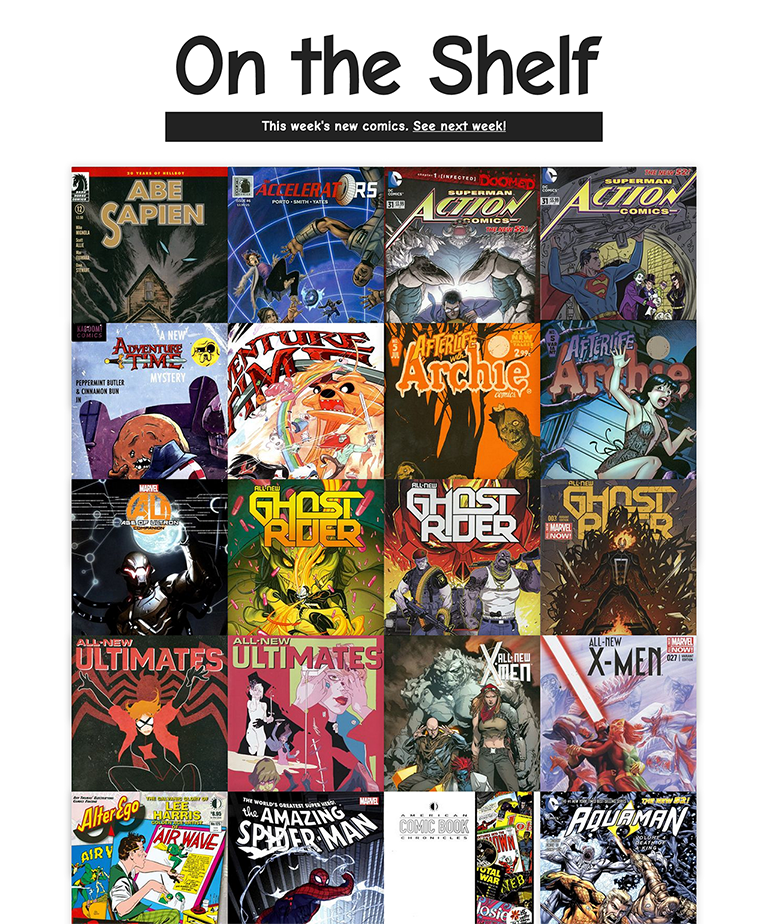
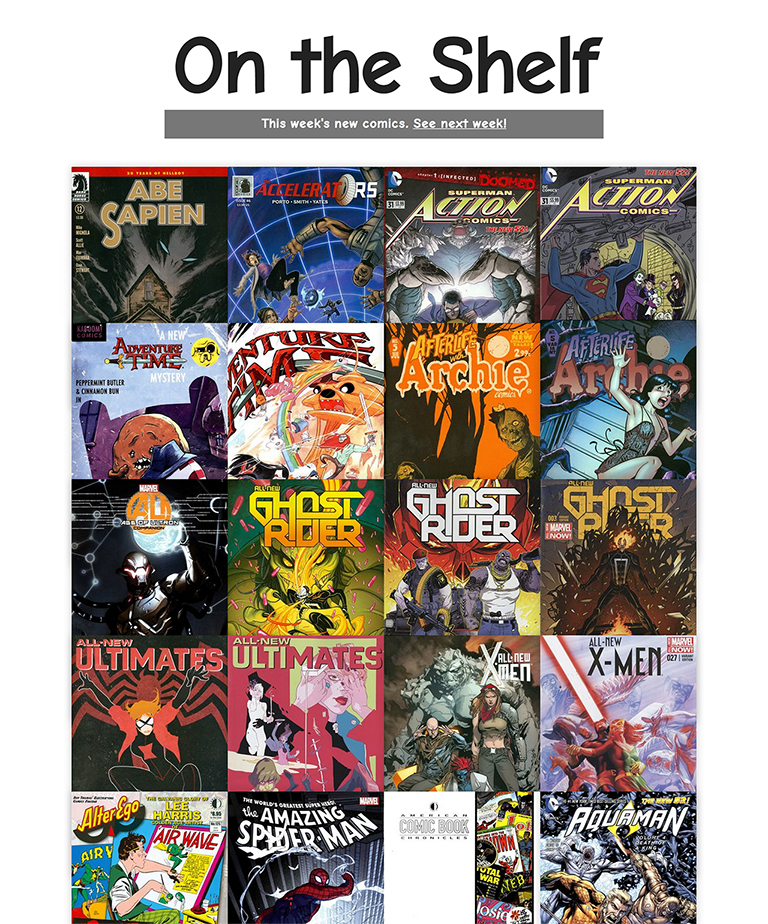
compiled the previous changes

Changed region(s): [[0.1875, 0.0303, 0.8125, 0.1515]]

diff --git a/index.html b/index.html
@@ -4,4 +4,4 @@
   })(window,document,'script','//www.google-analytics.com/analytics.js','ga');
   ga('create', 'UA-44743958-1', 'notsteve.com');
   ga('send', 'pageview');
-  </script><meta name="viewport" content="width=device-width, initial-scale=1.0"><link href="http://fonts.googleapis.com/css?family=Arvo|Montserrat:400,700" rel="stylesheet" type="text/css"><link href="http://fonts.googleapis.com/css?family=Lato:400,900|Volkhov" rel="stylesheet" type="text/css"><link rel="stylesheet" href="./css/styles.css"><script src="./js/jquery.js"></script><script src="./js/jquery.fittext.js"></script><script src="./js/mine.js"></script></head><body><div class="header-wrapper"><div class="header"><h1 class="responsive_h1">STEVEN LEWIS</h1><h2 class="responsive_h2">Designer and HTML/CSS developer based in San&nbsp;Francisco,&nbsp;CA.   </h2></div></div><div class="container"><div class="item"><div class="item-image"><a href="http://notsteve.com/font-flipper" target="_blank" title="The Font Flipper"><img src="img/font-flipper.png" alt="font flipper screenshot"><img src="img/font-flipper-p.png" alt="font flipper screenshot"></a></div><div class="item-description"><h3>Font Flipper</h3><p>Like most graphic designers, I adore typography. I developed this site to better appreciate the detail in each font and character, and to better enable a side-by-side comparison of the individual letters and complete paragraphs. Each and every typeface is unique, and “Font Flipper” enables the user to view multiple fonts, compare, and choose the best fit for their products, whether it is a book title, a page header, or just for fun. Type is a complicated, and beautiful thing. </p><a href="http://notsteve.com/font-flipper" target="_blank" title="The Font Flipper">notsteve.com/font-flipper</a></div></div><div class="item"><div class="item-image"><a href="http://www.laurastevenson.net/home" target="_blank" title="laura stevenson website"><img src="img/laura-shirt.png" alt="laura stevenson and the cans shirt"><img src="img/laura-sketches.png" alt="early sketches of Laura Stevenson shirt"></a></div><div class="item-description"><h3>Laura Stevenson & the Cans </h3><p>This design started as fan art. Making logos for bands I like is just one tactic I use to hone my design skills. If I can, I like to send what I've made to the band members. <em>Laura Stevenson and the Cans </em>are a spectacular indie/folk/rock band who eventually had their logo made into a T-shirt. After the first batch of shirts were printed and sold out, I receive an email informing me it was the most popular shirt they had. They reprinted the shirt, this time with different colors, and I finally got my hands on one. Like I said, the first batch sold out.</p><a href="http://www.laurastevenson.net/home" target="_blank" title="laura stevenson website">laurastevenson.net</a></div></div><div class="item"><div class="item-image"><a href="http://onesecond.designly.com" target="_blank" title="One second on the internet"><img src="img/one-second.png" alt="One second on the internet page"></a></div><div class="item-description"><h3>One Second on the Internet</h3><p>One second doesn’t seem like much time, but a lot can happen. In one second, there are approximately 200 posts on Reddit, 4,000 tweets on Twitter, and 50,000 likes on Facebook. Visualizing the traffic the Internet experiences is very difficult. Once the numbers get so big, they start to lose meaning to us. This is why “One Second on the Internet” provides an illustration of how much activity takes place in such a small unit of time. </p><a href="http://onesecond.designly.com" target="_blank" title="One second on the internet">onesecond.designly.com</a></div></div><div class="item"><div class="item-image"><a href="http://nickmalburg.bandcamp.com/" target="_blank" title="Nick Malburg bandcamp page"><img src="img/nick-cover.png" alt="album cover for nick malburg"><img src="img/nick-cover-back.png" alt="album cover for nick malburg"></a></div><div class="item-description"><h3>Nick Malburg: Word Murder</h3><p>Nick Malburg is solo folk/punk musician from Pittsburgh, Pennsylvania. He not only writes catchy tunes, but amazing lyrics. The entire album, “Word Murder" was recorded and mixed by Nick himself. As an artist, he wanted the album cover to embody the DIY style. As such, I combined a handwritten font for the title, text from “Everything Matters” by Ron Curie JR., and a shot of the neck of his guitar. For Nick, the album was about balancing his thoughts and words with music, and I believe the cover equates that message. </p><a href="http://nickmalburg.bandcamp.com/" target="_blank" title="Nick Malburg bandcamp page">nickmalburg.bandcamp.com</a></div></div><div class="item"><div class="item-image"><a href="http://designly.herokuapp.com/" target="_blank"><img src="img/designly.png" alt="Designly.com page"></a></div><div class="item-description"><h3>Designly</h3><p>I was originally hired to make logos, but was quickly propelled into much more active roles. I completely designed and coded the Designly site (twice) and helped with the design of several user interfaces. In addition, I created half of the themes provided and a series of coupon cards to be handed out at events. Designly underwent many changes in design, structure, goals, etc. I ended up writing blog posts, email campaigns, and several test pages and prototypes. In its entirety, it was a wholeheartedly rewarding experience and probably taught me more than any other job I've had.</p><a href="http://designly.herokuapp.com/" target="_blank">designly.herokuapp.com</a></div></div><div class="item"><div class="item-image"><img src="img/dark-knight.png" alt="dark knight t-shirt"></div><div class="item-description"><h3>The Dark Knight Rises T-Shirt</h3><p>Batman. He has been my favorite super hero since I was 3 years old. I was even an extra in the newest flick, <em>The Dark Knight Rises. </em>When I heard about a T-Shirt contest judged by Christopher Nolan, the director, I knew I had to enter. I am exceptionally proud of this design, even if it was rejected for entry. The site holding the contest refused to believe I had received permission to use the typeface directly from it's creator. So it goes.</p></div></div><div class="item"><div class="item-image"><img src="img/league.png" alt="freelance league illustration"></div><div class="item-description"><h3>Freelance League</h3><p>"It would be awesome if we had a cool illustration of superheroes for this landing page.” Those words sparked an idea. The simple doodles of super heroes during my lunch break became a finished product later that day. It was for a trial website called “Freelance League” which had a minimal superhero theme. Who doesn’t want to be a superhero?</p></div></div><div class="item"><div class="item-image"><img src="img/chimera.png" alt="chimera book"><img src="img/how-mag.png" alt="chimera award"></div><div class="item-description"><h3>Chimera Eight</h3><p>Chimera is an award-winning undergraduate Journal of Art and Literature from Edinboro University in Pennsylvania. As part of a seven-person design team, I helped to craft the eighth volume of Chimera. The book had a subtle prism theme, reflecting the variety of mediums and subject matter it contained. It was also the first year to include a DVD, which I designed the menu music for. It was an extraordinary learning experience. Contacting the printers, assessing costs, and choosing the paper stock were more complicated than we anticipated, but we persevered. We won multiple awards for the book, inlcuding one from <em>HOW Magazine. </em>My favorite part though is the white blocks on the cover which glow in the dark!</p></div></div><div class="item"><div class="item-image"><img src="img/searching.png" alt="soul searching print"><img src="img/dubduck.png" alt="soul searching print"></div><div class="item-description"><h3>Screen Prints</h3><p>Computers are excellent tools, but I find it refreshing to get my hands dirty. In college I was introduced to printmaking and it was a great reprieve from digital design. I love the experience of rolling ink, exposing screens, and seeing the satisfying, crisp print produced in the end (usually). I took enough classes, unbeknownst to me at the time, to earn a minor in printmaking. </p></div></div><div class="item"><div class="item-image"><a href="http://erieartmuseum.org/" target="_blank"><img src="img/handout.png" alt="handout for spring show"><img src="img/invite.png" alt="invitation for spring show"></a></div><div class="item-description"><h3>Erie Art Museum Spring Show</h3><p>For the Erie Art Museum's 88th Annual Spring Show I wanted to get away from the obvious crocuses and daffodils. Instead, I strove to illustrate the essence of Spring in form on the page. The blocks of light, weightless text lean from side to side giving the subtle feeling of wind, while the light paper texture and bold yellow headlines warm your eyes. The pages mimic a leisurely stroll along Lake Erie’s shore.</p><a href="http://erieartmuseum.org/" target="_blank">erieartmuseum.org</a></div></div><div class="item"><div class="item-image"><a href="http://www.bombthemusicindustry.com/final.html" target="_blank"><img src="img/bomb-book.png" alt="Bomb the music industry lyric book"><img src="img/bomb-inside.png" alt="Inside spread of BTMI book"></a></div><div class="item-description"><h3>Bomb the Music Industry Book</h3><p>Jeff Rosenstock was the singer of punk-rock band, <em>Bomb the Music Industry. </em>Jeff's lyrics often get distorted by the fast-paced music and his intense, emotion-filled delivery. I crafted this “listener friendly” book to equip listeners with an easy-to-navigate guide to the lyrics flying by their ears. The book is color-coded by album, and page numbers correspond to the song's track number. The intensity of the page's color is linked to the tempo of each song. Duct tape binds the spine in true “punk” fashion.</p><a href="http://www.bombthemusicindustry.com/final.html" target="_blank">bombthemusicindustry.com</a></div></div><div class="item"><div class="item-image"><img src="img/quoem-cover.png" alt="quoem book"><img src="img/quoem-progress.png" alt="quoem book progression"></div><div class="item-description"><h3>New/Idea/Fresh/Poems</h3><p>Haiku is fascinating. Working within strict and rigid limitations is a challenge and inspires poetic compositions that would not otherwise exist. In admiration of the Haiku, I developed the “quoem.” Each quoem is four words long. No more, no less, in order to compliment the form of the Haiku. This hand bound book of quoems I produced is a  collection of work written by friends and myself. Each quoem is written over full-bleed photographs, which accent the words.</p></div></div><div class="item"><div class="item-image"><img src="img/gallery-full.png" alt="yeah, wer're designers but... show"><img src="img/gallery-chair.png" alt="a visitor in the gallery"></div><div class="item-description"><h3>Yeah, We're Designers, But...</h3><p>Creating a split-gallery show with JP Spanbauer, one of my best friends, was a life-altering experience. Although we are both graphic designers, we each have our own span of different and exciting interests. The gallery show highlighted both our design work and our side projects. My half of the gallery featured a collage of photographs nailed to the walls with cotton clouds and pieces of “sky,” which were suspended above the images. A recliner sitting next to a CD player featuring music I composed enabled the viewer to enter a world completely of my own creation. In addition to my own work, JP painted giant murals on his walls between his framed screen prints. His handmade, screen printed pillows rested on a large heater in the room most shows struggle to hide. Our design work was the centerpiece of the room, and was featured on podiums.</p></div></div><div class="footer">   <a href="mailto:steven@notsteve.com" title="Steven's email" class="responsive_links">steven@notsteve.com</a><a href="https://twitter.com/airguitarbandit" target="_blank" title="Steven's twitter page" class="responsive_links">@airguitarbandit</a></div></div></body></html>
+  </script><meta name="viewport" content="width=device-width, initial-scale=1.0"><title>notsteve.com</title><meta name="description" content="The portfolio of designer, Steven Lewis"><meta name="autho" content="Steven Lewis"><meta property="og:title" content="notsteve.com"><meta property="og:url" content="http://notsteve.com"><meta property="og:type" content="website"><meta property="og:image" content="http://notsteve.com/img/steve.jpg"><meta property="og:description" content="The portfolio site for designer, Steven Lewis."><meta name="twitter:card" content="The portfolio site for designer, Steven Lewis."><meta name="twitter:url" content="http://notsteve.com"><meta name="twitter:title" content="notsteve.com"><meta name="twitter:description" content="The portfolio site for designer, Steven Lewis."><meta name="twitter:image" content="http://notsteve.com/img/steve.jpg"><link href="http://fonts.googleapis.com/css?family=Arvo|Montserrat:400,700" rel="stylesheet" type="text/css"><link href="http://fonts.googleapis.com/css?family=Lato:400,900|Volkhov" rel="stylesheet" type="text/css"><link rel="stylesheet" href="./css/styles.css"><script src="./js/jquery.js"></script><script src="./js/jquery.fittext.js"></script><script src="./js/mine.js"></script></head><body><div class="header-wrapper"><div class="header"><h1 class="responsive_h1">STEVEN LEWIS</h1><h2 class="responsive_h2">Designer and HTML/CSS developer based in San&nbsp;Francisco,&nbsp;CA.   </h2></div></div><div class="container"><div class="item"><div class="item-image"><a href="http://notsteve.com/font-flipper" target="_blank" title="The Font Flipper"><img src="img/font-flipper.png" alt="font flipper screenshot"><img src="img/font-flipper-p.png" alt="font flipper screenshot"></a></div><div class="item-description"><h3>Font Flipper</h3><p>Like most graphic designers, I adore typography. I developed this site to better appreciate the detail in each font and character, and to better enable a side-by-side comparison of the individual letters and complete paragraphs. Every typeface is unique, and “Font Flipper” enables the user to view multiple fonts, compare, and choose the best fit for their products, whether it is a book title, a page header, or just for fun. Type is a complicated, and beautiful thing. </p><a href="http://notsteve.com/font-flipper" target="_blank" title="The Font Flipper">notsteve.com/font-flipper</a></div></div><div class="item"><div class="item-image"><a href="http://www.laurastevenson.net/home" target="_blank" title="laura stevenson website"><img src="img/laura-shirt.png" alt="laura stevenson and the cans shirt"><img src="img/laura-sketches.png" alt="early sketches of Laura Stevenson shirt"></a></div><div class="item-description"><h3>Laura Stevenson & the Cans </h3><p>This design started as fan art. Making logos for bands I like is just one tactic I use to hone my design skills. If I can, I like to send what I've made to the band members. <em>Laura Stevenson and the Cans </em>are a spectacular indie/folk/rock band who eventually had their logo made into a T-shirt. After the first batch of shirts were printed and sold out, I receive an email informing me it was the most popular shirt they had. They reprinted the shirt, this time with different colors, and I finally got my hands on one. Like I said, the first batch sold out.</p><a href="http://www.laurastevenson.net/home" target="_blank" title="laura stevenson website">laurastevenson.net</a></div></div><div class="item"><div class="item-image"><a href="http://onesecond.designly.com" target="_blank" title="One second on the internet"><img src="img/one-second.png" alt="One second on the internet page"></a></div><div class="item-description"><h3>One Second on the Internet</h3><p>One second doesn’t seem like much time, but a lot can happen. In one second, there are approximately 200 posts on Reddit, 4,000 tweets on Twitter, and 50,000 likes on Facebook. Visualizing the traffic the Internet experiences is very difficult. Once the numbers get so big, they start to lose meaning to us. This is why “One Second on the Internet” provides an illustration of how much activity takes place in such a small unit of time. </p><a href="http://onesecond.designly.com" target="_blank" title="One second on the internet">onesecond.designly.com</a></div></div><div class="item"><div class="item-image"><a href="http://nickmalburg.bandcamp.com/" target="_blank" title="Nick Malburg bandcamp page"><img src="img/nick-cover.png" alt="album cover for nick malburg"><img src="img/nick-cover-back.png" alt="album cover for nick malburg"></a></div><div class="item-description"><h3>Nick Malburg: Word Murder</h3><p>Nick Malburg is solo folk/punk musician from Pittsburgh, Pennsylvania. He not only writes catchy tunes, but amazing lyrics. The entire album, “Word Murder" was recorded and mixed by Nick himself. As an artist, he wanted the album cover to embody the DIY style. As such, I combined a handwritten font for the title, text from “Everything Matters” by Ron Curie JR., and a shot of the neck of his guitar. For Nick, the album was about balancing his thoughts and words with music, and I believe the cover equates that message. </p><a href="http://nickmalburg.bandcamp.com/" target="_blank" title="Nick Malburg bandcamp page">nickmalburg.bandcamp.com</a></div></div><div class="item"><div class="item-image"><a href="http://notsteve.com/comic-shelf" target="_blank" title="On the Shelf"><img src="img/comic-shelf.png" alt="On the Shelf page"></a></div><div class="item-description"><h3>On the Shelf</h3><p>Comics are one of the reasons I do what I do. They fueled my interest in art as a kid, and I even made a comic book as one of my senior projects in college. I built this site to allow fans to virtually browse through new comic releases, and hopefully discover some new books to check out. There were several sites already with this information, but none of them really focused on the artwork or covers, which for me just would not do.</p><a href="http://notsteve.com/comic-shelf" target="_blank" title="On the Shelf">notsteve.com/comic-shelf</a></div></div><div class="item"><div class="item-image"><a href="http://designly.herokuapp.com/" target="_blank"><img src="img/designly.png" alt="Designly.com page"></a></div><div class="item-description"><h3>Designly</h3><p>I was originally hired to make logos, but was quickly propelled into much more active roles. I completely designed and coded the Designly site (twice) and helped with the design of several user interfaces. In addition, I created half of the themes provided and a series of coupon cards to be handed out at events. Designly underwent many changes in design, structure, goals, etc. I ended up writing blog posts, email campaigns, and several test pages and prototypes. In its entirety, it was a wholeheartedly rewarding experience and probably taught me more than any other job I've had.</p><a href="http://designly.herokuapp.com/" target="_blank">designly.herokuapp.com</a></div></div><div class="item"><div class="item-image"><img src="img/dark-knight.png" alt="dark knight t-shirt"></div><div class="item-description"><h3>The Dark Knight Rises T-Shirt</h3><p>Batman. He has been my favorite super hero since I was 3 years old. I was even an extra in the newest flick, <em>The Dark Knight Rises. </em>When I heard about a T-Shirt contest judged by Christopher Nolan, the director, I knew I had to enter. I am exceptionally proud of this design, even if it was rejected for entry. The site holding the contest refused to believe I had received permission to use the typeface directly from it's creator. So it goes.</p></div></div><div class="item"><div class="item-image"><img src="img/league.png" alt="freelance league illustration"></div><div class="item-description"><h3>Freelance League</h3><p>"It would be awesome if we had a cool illustration of superheroes for this landing page.” Those words sparked an idea. The simple doodles of super heroes during my lunch break became a finished product later that day. It was for a trial website called “Freelance League” which had a minimal superhero theme. Who doesn’t want to be a superhero?</p></div></div><div class="item"><div class="item-image"><img src="img/chimera.png" alt="chimera book"><img src="img/how-mag.png" alt="chimera award"></div><div class="item-description"><h3>Chimera Eight</h3><p>Chimera is an award-winning undergraduate Journal of Art and Literature from Edinboro University in Pennsylvania. As part of a seven-person design team, I helped to craft the eighth volume of Chimera. The book had a subtle prism theme, reflecting the variety of mediums and subject matter it contained. It was also the first year to include a DVD, which I designed the menu music for. It was an extraordinary learning experience. Contacting the printers, assessing costs, and choosing the paper stock were more complicated than we anticipated, but we persevered. We won multiple awards for the book, inlcuding one from <em>HOW Magazine. </em>My favorite part though is the white blocks on the cover which glow in the dark!</p></div></div><div class="item"><div class="item-image"><img src="img/searching.png" alt="soul searching print"><img src="img/dubduck.png" alt="soul searching print"></div><div class="item-description"><h3>Screen Prints</h3><p>Computers are excellent tools, but I find it refreshing to get my hands dirty. In college I was introduced to printmaking and it was a great reprieve from digital design. I love the experience of rolling ink, exposing screens, and seeing the satisfying, crisp print produced in the end (usually). I took enough classes, unbeknownst to me at the time, to earn a minor in printmaking. </p></div></div><div class="item"><div class="item-image"><a href="http://erieartmuseum.org/" target="_blank"><img src="img/handout.png" alt="handout for spring show"><img src="img/invite.png" alt="invitation for spring show"></a></div><div class="item-description"><h3>Erie Art Museum Spring Show</h3><p>For the Erie Art Museum's 88th Annual Spring Show I wanted to get away from the obvious crocuses and daffodils. Instead, I strove to illustrate the essence of Spring in form on the page. The blocks of light, weightless text lean from side to side giving the subtle feeling of wind, while the light paper texture and bold yellow headlines warm your eyes. The pages mimic a leisurely stroll along Lake Erie’s shore.</p><a href="http://erieartmuseum.org/" target="_blank">erieartmuseum.org</a></div></div><div class="item"><div class="item-image"><a href="http://www.bombthemusicindustry.com/final.html" target="_blank"><img src="img/bomb-book.png" alt="Bomb the music industry lyric book"><img src="img/bomb-inside.png" alt="Inside spread of BTMI book"></a></div><div class="item-description"><h3>Bomb the Music Industry Book</h3><p>Jeff Rosenstock was the singer of punk-rock band, <em>Bomb the Music Industry. </em>Jeff's lyrics often get distorted by the fast-paced music and his intense, emotion-filled delivery. I crafted this “listener friendly” book to equip listeners with an easy-to-navigate guide to the lyrics flying by their ears. The book is color-coded by album, and page numbers correspond to the song's track number. The intensity of the page's color is linked to the tempo of each song. Duct tape binds the spine in true “punk” fashion.</p><a href="http://www.bombthemusicindustry.com/final.html" target="_blank">bombthemusicindustry.com</a></div></div><div class="item"><div class="item-image"><img src="img/quoem-cover.png" alt="quoem book"><img src="img/quoem-progress.png" alt="quoem book progression"></div><div class="item-description"><h3>New/Idea/Fresh/Poems</h3><p>Haiku is fascinating. Working within strict and rigid limitations is a challenge and inspires poetic compositions that would not otherwise exist. In admiration of the Haiku, I developed the “quoem.” Each quoem is four words long. No more, no less, in order to compliment the form of the Haiku. This hand bound book of quoems I produced is a  collection of work written by friends and myself. Each quoem is written over full-bleed photographs, which accent the words.</p></div></div><div class="item"><div class="item-image"><img src="img/gallery-full.png" alt="yeah, wer're designers but... show"><img src="img/gallery-chair.png" alt="a visitor in the gallery"></div><div class="item-description"><h3>Yeah, We're Designers, But...</h3><p>Creating a split-gallery show with JP Spanbauer, one of my best friends, was a life-altering experience. Although we are both graphic designers, we each have our own span of different and exciting interests. The gallery show highlighted both our design work and our side projects. My half of the gallery featured a collage of photographs nailed to the walls with cotton clouds and pieces of “sky,” which were suspended above the images. A recliner sitting next to a CD player featuring music I composed enabled the viewer to enter a world completely of my own creation. In addition to my own work, JP painted giant murals on his walls between his framed screen prints. His handmade, screen printed pillows rested on a large heater in the room most shows struggle to hide. Our design work was the centerpiece of the room, and was featured on podiums.</p></div></div><div class="footer">   <a href="mailto:steven@notsteve.com" title="Steven's email" class="responsive_links">steven@notsteve.com</a><a href="https://twitter.com/airguitarbandit" target="_blank" title="Steven's twitter page" class="responsive_links">@airguitarbandit</a></div></div></body></html>

diff --git a/comic-shelf.html b/comic-shelf.html
@@ -4,7 +4,7 @@
   })(window,document,'script','//www.google-analytics.com/analytics.js','ga');
   ga('create', 'UA-44743958-1', 'notsteve.com');
   ga('send', 'pageview');
-  </script><meta name="viewport" content="width=device-width, initial-scale=1.0"><link href="http://fonts.googleapis.com/css?family=Merriweather:400,700,800" rel="stylesheet" type="text/css"><link href="http://fonts.googleapis.com/css?family=Permanent+Marker|Londrina+Shadow" rel="stylesheet" type="text/css"><link rel="stylesheet" href="./css/comic-shelf.css"><link rel="stylesheet" href="./css/comic-font.css"><script src="http://code.jquery.com/jquery-1.10.1.min.js"></script></head><body><h1 class="responsive_h1">On the Shelf</h1><div class="da-shelf"><h2>This week's new comics. <a href="/comic-shelf-next" alt="next week's comics">See next week!</a></h2></div><div class="wrapper"><h4 id="loading-text">LOADING...</h4><ul id="comic-list"></ul></div><h3 id="credits">Site created by <a href="http://notsteve.com">Steven Lewis</a>. Info pulled from <a href="http://www.mycomicshop.com/newreleases" alt="mycomicshop.com">MyComicShop.com</a> using <a href="http://www.kimonolabs.com/">Kimono</a>.</h3><script>// -----------------------------------------
+  </script><meta name="viewport" content="width=device-width, initial-scale=1.0"><title>On the Shelf</title><meta name="description" content="See this weeks new releases in comics"><meta name="autho" content="Steven Lewis"><link href="http://fonts.googleapis.com/css?family=Merriweather:400,700,800" rel="stylesheet" type="text/css"><link href="http://fonts.googleapis.com/css?family=Permanent+Marker|Londrina+Shadow" rel="stylesheet" type="text/css"><link rel="stylesheet" href="./css/comic-shelf.css"><link rel="stylesheet" href="./css/comic-font.css"><script src="http://code.jquery.com/jquery-1.10.1.min.js"></script></head><body><h1 class="responsive_h1">On the Shelf</h1><div class="da-shelf"><h2>This week's new comics. <a href="/comic-shelf-next" alt="next week's comics">See next week!</a></h2></div><div class="wrapper"><h4 id="loading-text">LOADING...</h4><ul id="comic-list"></ul></div><h3 id="credits">Site created by <a href="http://notsteve.com">Steven Lewis</a>. Info pulled from <a href="http://www.mycomicshop.com/newreleases" alt="mycomicshop.com">MyComicShop.com</a> using <a href="http://www.kimonolabs.com/">Kimono</a>.</h3><script>// -----------------------------------------
 // This relies on Kimono (kimonolabs.com) and the API I created using their tool. Also utilizes info from mycomicshop.com (thanks!)
 // -----------------------------------------
 

diff --git a/css/comic-shelf.css b/css/comic-shelf.css
@@ -8,7 +8,7 @@ body{background:#fff;font-family:'Comic Neue Angular',sans-serif;text-align:cent
 h1{font-family:'Comic Neue Angular',sans-serif;font-size:100px;letter-spacing:-8px;position:relative;margin:20px 0;line-height:1;z-index:0;color:#222;}
 a{text-decoration:underline;color:#222;}
 a:hover{color:#aaa;}
-.da-shelf{background:#222;margin:0 auto;padding:10px 0;}.da-shelf h2{font-family:'Comic Neue Angular',sans-serif;margin:0;position:relative;z-index:1;font-weight:700;font-size:22px;line-height:1.3;color:#fff;}
+.da-shelf{background:#777;margin:0 auto;padding:7px 0;}.da-shelf h2{font-family:'Comic Neue Angular',sans-serif;margin:0;position:relative;z-index:1;font-weight:700;font-size:22px;line-height:1.3;color:#fff;}
 .da-shelf a{display:block;color:#fff;}
 .da-shelf a:hover{color:#ccc;}
 #loading-text{margin:80px;font-size:30px;}
